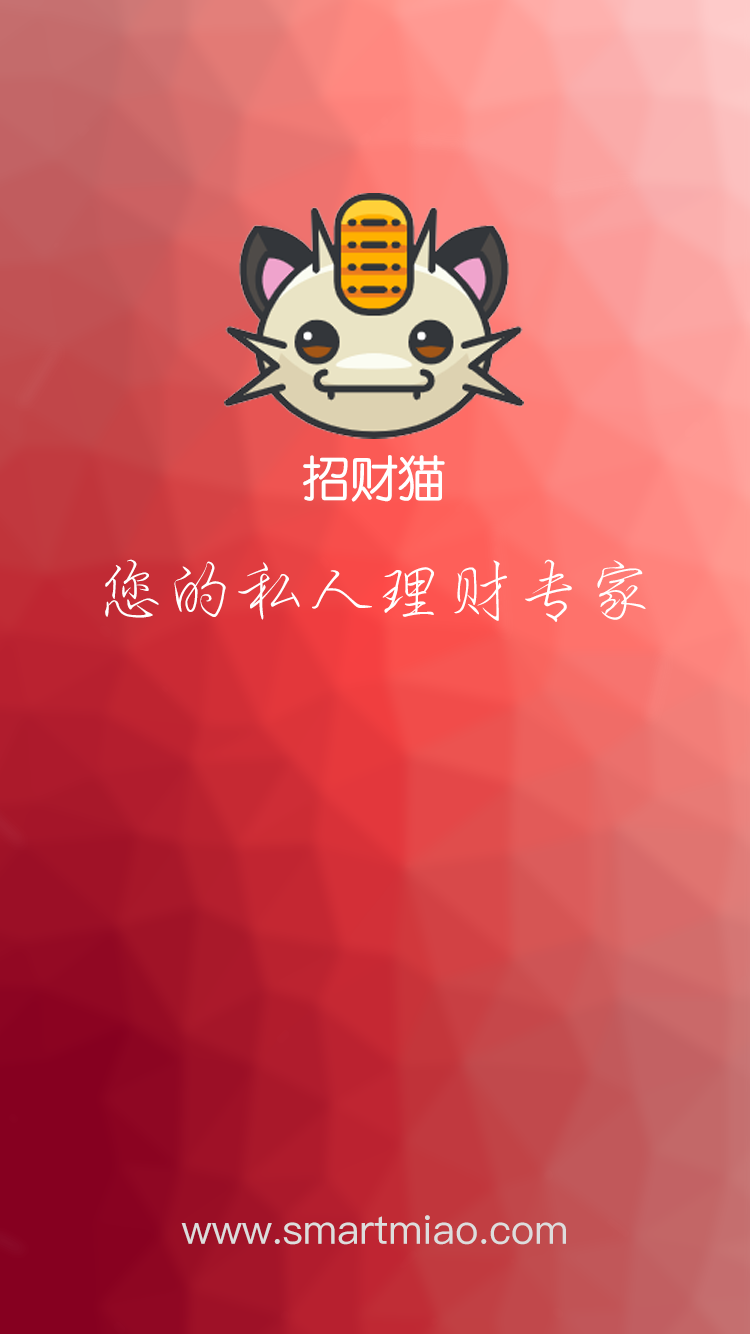
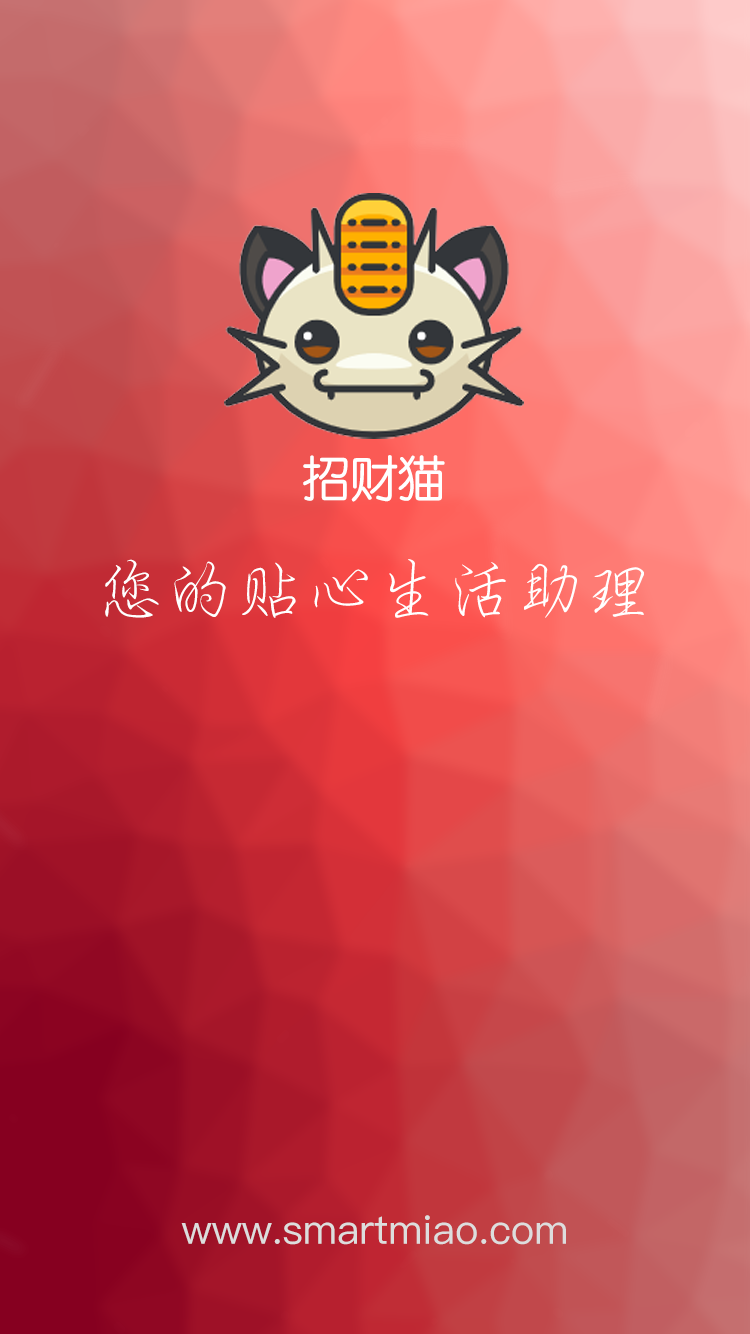
feature: app添加更新功能

Changed region(s): [[0.3067, 0.3996, 0.6747, 0.461], [0.7973, 0.3996, 0.8587, 0.461], [0.7053, 0.3996, 0.7667, 0.461]]

diff --git a/app/uniCloud-aliyun/cloudfunctions/chb-check-update/index.js b/app/uniCloud-aliyun/cloudfunctions/chb-check-update/index.js
@@ -1,0 +1,66 @@
+'use strict';
+exports.main = async (event, context) => {
+  //event为客户端上传的参数
+  console.log('event : ' + event)
+
+  let result = {
+    isUpdate: false
+  }
+
+  let appid = event.appid
+  let clientVersion = event.version
+
+  //这是通过HTTP接口访问的
+  if (event.headers) {
+    appid = event.queryStringParameters.appid
+    clientVersion = event.queryStringParameters.version
+  }
+
+  //根据UA判断系统平台
+  const os = /iPhone|iPad/.test(context.CLIENTUA) ? 'ios' : 'android'
+
+  if (appid && clientVersion) {
+    const db = uniCloud.database();
+
+    const collection = db.collection('uni-app-version')
+    const record = await collection.where({
+      appid: appid
+    }).limit(1).get()
+
+    if (record && record.data && record.data.length > 0) {
+      let versionInDb = record.data[0][os]
+      if (compare(versionInDb.version, clientVersion) == 1) {
+        result.isUpdate = true
+        result.note = versionInDb.note
+        result.url = versionInDb.url
+      } else {
+        result.msg = '当前版本已经是最新的，不需要更新！'
+      }
+    } else {
+      result.msg = 'AppId不匹配'
+    }
+  }
+
+  console.log('检查结果：', result);
+
+  //返回数据给客户端
+  return result
+};
+
+/**
+ * 对比版本号
+ * @param {Object} v1
+ * @param {Object} v2
+ */
+function compare(v1, v2) {
+  let arr_1 = v1.split('.')
+  let arr_2 = v2.split('.')
+  for (var i = 0; i < arr_1.length; i++) {
+    if (parseInt(arr_1[i]) > parseInt(arr_2[i])) {
+      return 1
+    } else if (parseInt(arr_1[i]) < parseInt(arr_2[i])) {
+      return -1
+    }
+  }
+  return 0
+}

diff --git a/app/App.vue b/app/App.vue
@@ -3,27 +3,27 @@
 		globalData: {},
 		onLaunch() {
 			// #ifdef APP-PLUS
-			// uniCloud.callFunction({
-			// 	name: 'chb-check-update',
-			// 	data: {
-			// 		appid: plus.runtime.appid,
-			// 		version: plus.runtime.version
-			// 	},
-			// 	success(e) {
-			// 		if (e.result.isUpdate) { //需要更新
-			// 			// 提醒用户更新
-			// 			uni.showModal({
-			// 				title: '更新提示',
-			// 				content: e.result.note ? e.result.note : '是否选择更新',
-			// 				success: (ee) => {
-			// 					if (ee.confirm) {
-			// 						plus.runtime.openURL(e.result.url);
-			// 					}
-			// 				}
-			// 			})
-			// 		}
-			// 	}
-			// })
+			uniCloud.callFunction({
+				name: 'chb-check-update',
+				data: {
+					appid: plus.runtime.appid,
+					version: plus.runtime.version
+				},
+				success(e) {
+					if (e.result.isUpdate) { //需要更新
+						// 提醒用户更新
+						uni.showModal({
+							title: '更新提示',
+							content: e.result.note ? e.result.note : '是否选择更新',
+							success: (ee) => {
+								if (ee.confirm) {
+									plus.runtime.openURL(e.result.url);
+								}
+							}
+						})
+					}
+				}
+			})
 			// #endif
 
 			// #ifdef APP-PLUS

diff --git a/web/index.html b/web/index.html
@@ -144,7 +144,7 @@
                             <span class="icon has-text-success">
                                 <i class="fas fa-check"></i>
                             </span>
-                        <span>理财管家：信用卡还款、各项财务收支流水账，好用的钱包管家</span>
+                        <span>记账管家：信用卡还款、各项财务收支流水账，好用的钱包管家</span>
                     </div>
                     <div class="icon-text">
                             <span class="icon has-text-success">

diff --git a/app/pages/login/index.vue b/app/pages/login/index.vue
@@ -11,7 +11,7 @@
       <view class="box-title">
         <u-image class="u-image" mode="scaleToFill" height="200" width="200" src="@/static/app/common/logo.png"></u-image>
         <text class="title">招财猫</text>
-        <text class="subtitle">您的私人理财专家</text>
+        <text class="subtitle">您的贴心生活助理</text>
       </view>
       <u-form class="u-form" :model="form" ref="uForm" :errorType="errorType">
         <u-form-item prop="username" :border-bottom="false">

diff --git a/app/pages/wallet/index.vue b/app/pages/wallet/index.vue
@@ -68,7 +68,7 @@ const classifyData = [
         "key": "A字裙",
         "icon": "https://cdn.uviewui.com/uview/common/classify/1/1.jpg",
         "cat": 10,
-        no: '370784199206224510',
+        no: '110101199003073933',
         date: '2022-12-12 ~ 2022-12-12'
       }
     ]
@@ -306,6 +306,7 @@ page {
 <style lang="scss" scoped>
 .wrap {
   padding: 0;
+  padding-top: var(--status-bar-height);
   height: calc(100vh);
   display: flex;
   flex-direction: column;

diff --git a/app/config/index.js b/app/config/index.js
@@ -1,6 +1,6 @@
 const serverURL = process.env.NODE_ENV === 'production' ?
     // 'https://services.smartmiao.com' : 'http://localhost:7001'
-    'https://services.smartmiao.com' : 'http://192.168.0.65:7001'
+    'https://services.smartmiao.com' : 'http://192.168.0.67:7001'
 
 export {
   serverURL

diff --git a/app/pages/account-manage/index.vue b/app/pages/account-manage/index.vue
@@ -289,6 +289,7 @@ background-color: rgb(240, 242, 244);
 <style lang="scss" scoped>
 .wrap {
   padding: 0;
+  //padding-top: var(--status-bar-height);
   height: calc(100vh);
   display: flex;
   flex-direction: column;

diff --git a/app/pages/alert/index.vue b/app/pages/alert/index.vue
@@ -102,6 +102,7 @@ background-color: rgb(240, 242, 244);
 
 <style lang="scss" scoped>
 .wrap {
+  padding-top: var(--status-bar-height);
   .u-navbar {
     .navbar-right {
       color: $cus-title-color;

diff --git a/app/pages/home/index.vue b/app/pages/home/index.vue
@@ -373,6 +373,7 @@ background-color: rgb(240, 242, 244);
 <style lang="scss" scoped>
 .wrap {
   padding: rpx(40);
+  padding-top: var(--status-bar-height);
   min-height: 100%;
   overflow: auto;
 

diff --git a/app/pages/me/index.vue b/app/pages/me/index.vue
@@ -198,6 +198,7 @@ page {
 <style lang="scss" scoped>
 .wrap {
   padding: 0;
+  //padding-top: var(--status-bar-height);
   overflow: hidden;
 
   > .box-head {

diff --git a/app/uniCloud-aliyun/cloudfunctions/chb-check-update/README.md b/app/uniCloud-aliyun/cloudfunctions/chb-check-update/README.md
@@ -1,0 +1,83 @@
+这是App升级检查的云函数实现示例，可用于开启`uniCloud`的`uni-app`项目，也可以用于传统的`mui`或`5+ App`项目。
+
+使用说明：
+
+1. 使用HBuilderX导入本插件到本地`uniCloud`项目中
+2. 上传云函数到自己的服务空间
+3. 修改`db_init.js`文件，修改appid及当前版本号，在`db_init.json`上右键初始化数据，更多用法参考[db_init.json规范](https://uniapp.dcloud.net.cn/uniCloud/cf-database?id=db)，初始数据示例如下：
+```
+{
+  "uni-app-version": {
+    "data": [{
+      "_id":"bb83ad495efdddf9002e88e750d7049d",
+      "appid": "__UNI__HelloUniApp",
+      "name": "Hello uniapp",
+      "android": {
+        "note": "接入uni统计\n解决微信自定义组件运行失败的Bug",
+        "title": "Hello uni-app更新",
+        "url": "http://img.cdn.aliyun.dcloud.net.cn/guide/uniapp/HelloUniApp@v2.2.3.apk",
+        "version": "2.2.3"
+      },
+      "ios": {
+        "note": "增加权限判断\n实例首页重构为 nvue，提升渲染速度",
+        "title": "Hello uni-app更新",
+        "url": "https://itunes.apple.com/cn/app/hello-uni-app/id1417078253?mt=8",
+        "version": "1.3.4"
+      }
+    }]
+  }
+}
+```
+4. 在开通`uniCloud`服务的前端项目中，调用检查更新，代码示例如下：
+
+```
+uniCloud.callFunction({
+  name: 'chb-check-update',
+  data: {
+    appid: plus.runtime.appid
+    version: plus.runtime.version
+  },
+  success(e) {
+    if (e.result.isUpdate) {//需要更新
+      // 提醒用户更新
+      uni.showModal({
+        title: '更新提示',
+        content: e.result.note ? e.result.note : '是否选择更新',
+        success: (ee) => {
+          if (ee.confirm) {
+            plus.runtime.openURL(e.result.url);
+          }
+        }
+      })
+    }
+  }
+})
+
+```
+
+5. 如果是mui或5+ 项目，也可以通过[云函数URL化](https://uniapp.dcloud.net.cn/uniCloud/http)实现App端的更新检查，客户端的调用代码如下：
+
+```
+//升级检查的服务器地址，可在uniCloud后台编辑查看
+var server = "https://chb-tcb-01-51c845.service.tcloudbase.com/update"
+
+function update() {
+	mui.getJSON(server, {
+		"appid": plus.runtime.appid,
+		"version": plus.runtime.version
+	}, function(data) {
+		if (data.isUpdate) {
+			plus.nativeUI.confirm(data.note, function(event) {
+				if (0 == event.index) {
+					plus.runtime.openURL(data.url);
+				}
+			}, data.title, ["立即更新", "取　　消"]);
+		}
+	});
+}
+
+mui.os.plus && !mui.os.stream && mui.plusReady(update);
+```
+
+
+

diff --git a/README.md b/README.md
@@ -1,5 +1,5 @@
 # Smart miao
-招财猫-您的私人理财专家，丰富的记账功能，助你养成良好的记账习惯。便捷的卡证照管理，打印、分享更加快捷高效。
+招财猫-您的贴心生活助理，丰富的记账功能，助你养成良好的记账习惯。便捷的卡证照管理，打印、分享更加快捷高效。
 
 做就做全套：网页端、移动端、桌面端多端开发，免费视频教程、免费营销网站、免费AE产品宣传视频、甚至是教你申请著作权......
 
